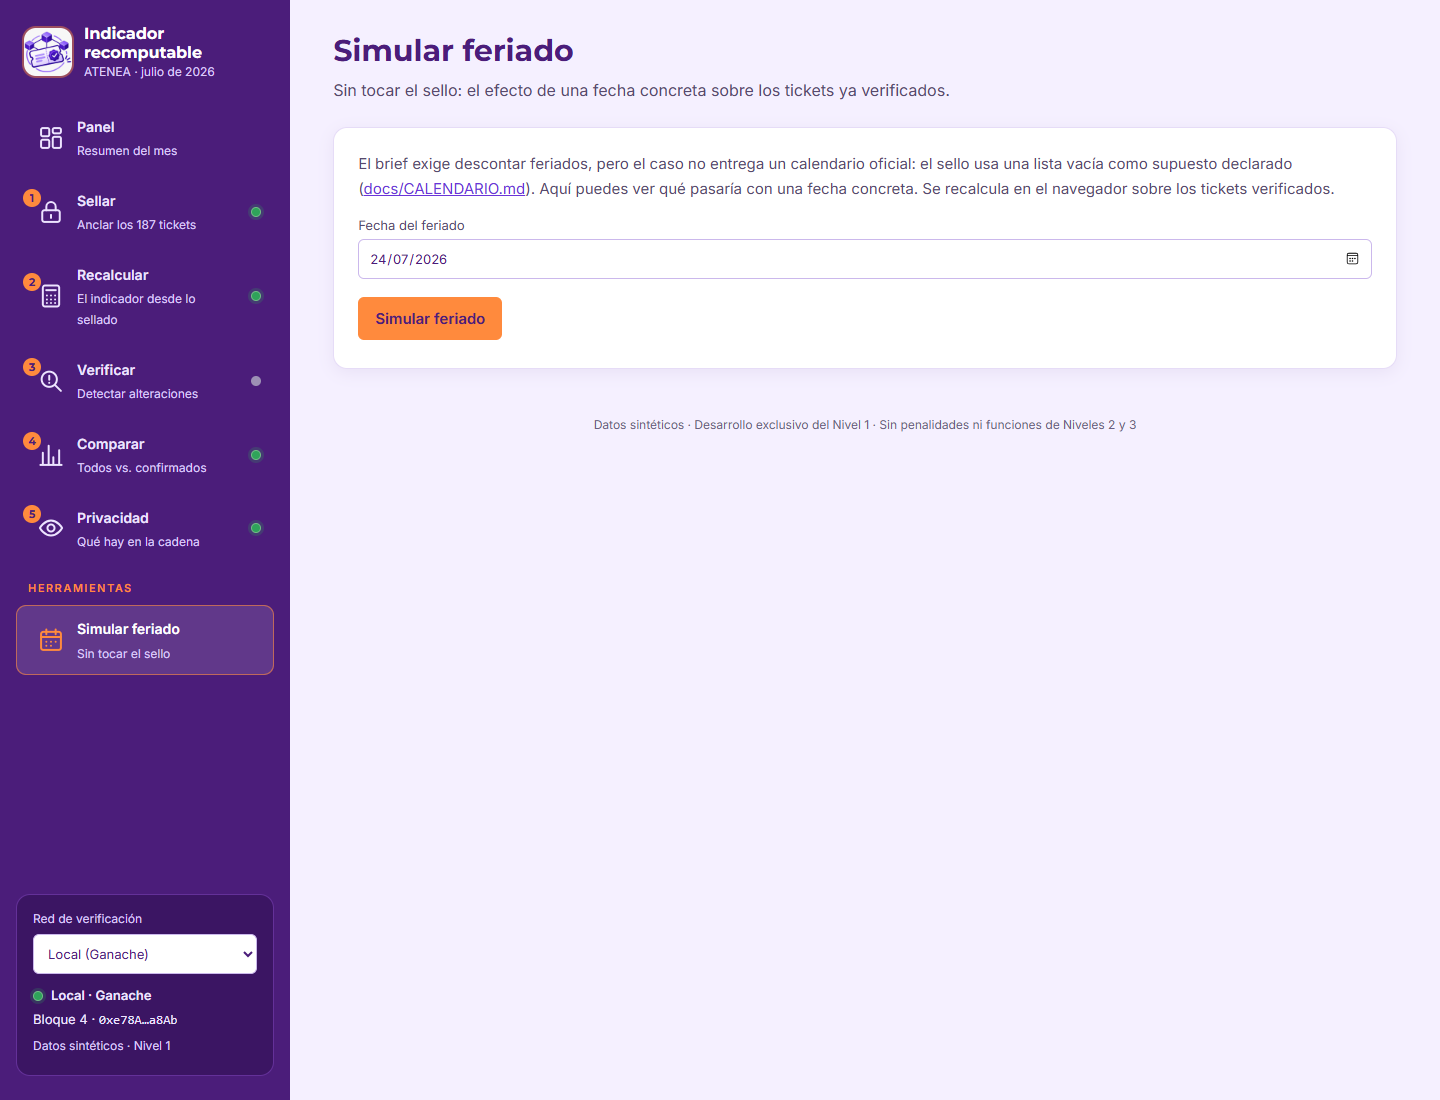
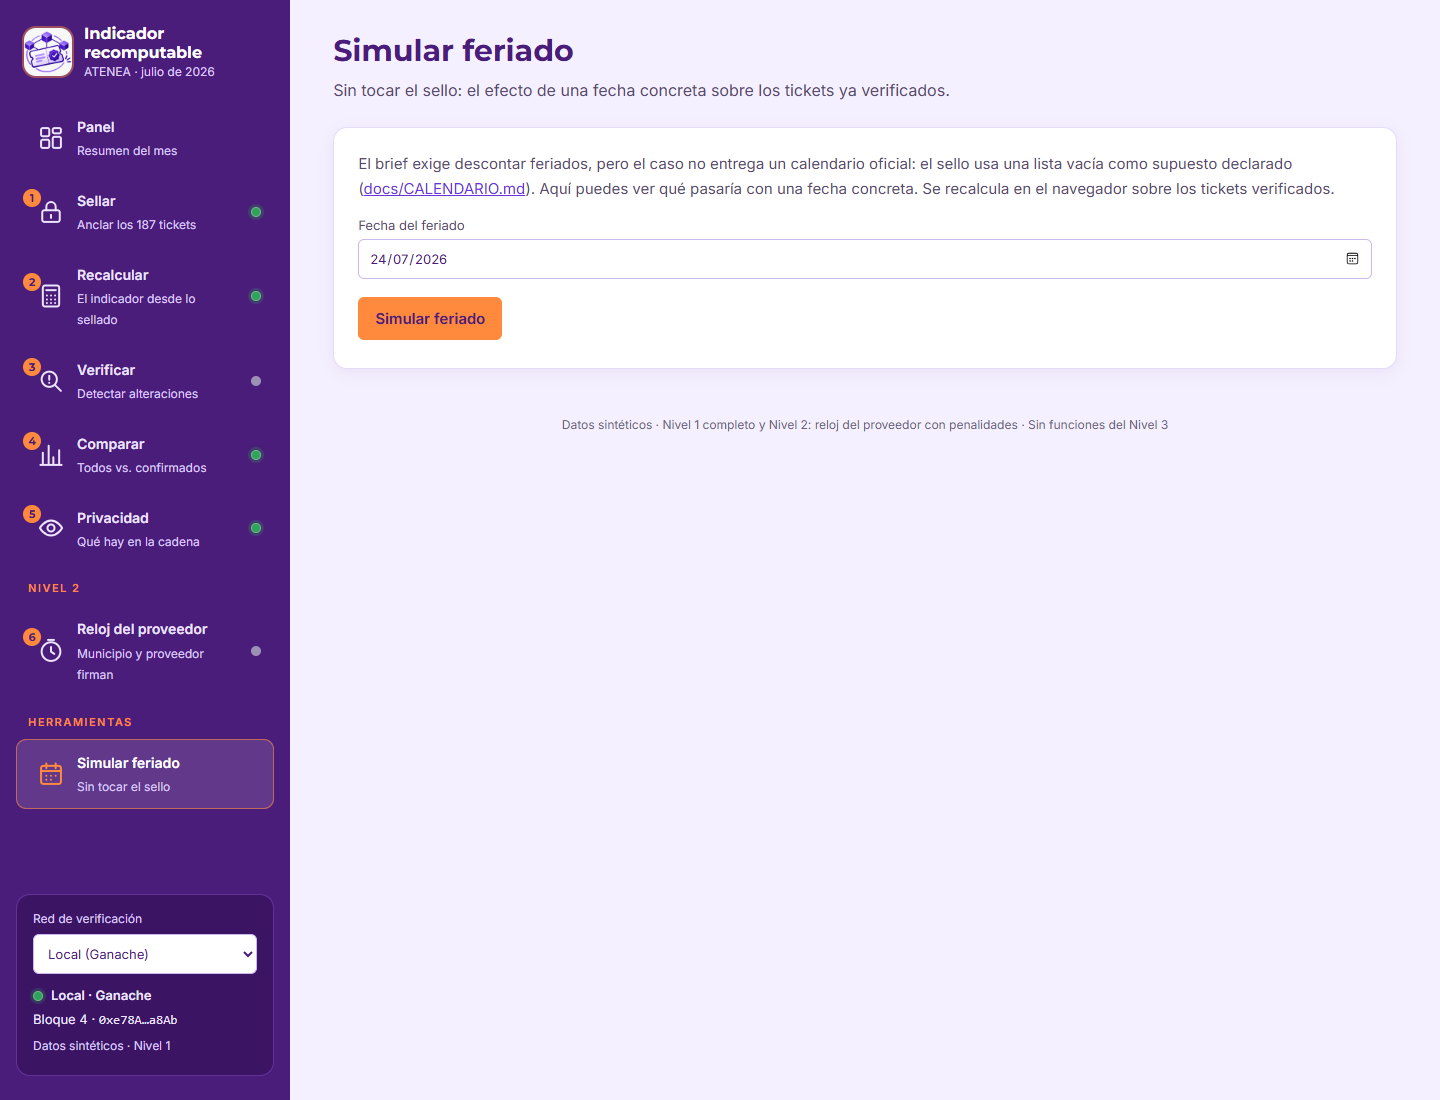
Fase 5: vista #/proveedor (Nivel 2) con el diseño nuevo
- Menú: sección «Nivel 2» con «6 · Reloj del proveedor» (ícono de reloj) y su punto de estado.
- «Cargar los 9 casos»: el municipio abre y el proveedor responde; la vista muestra quién
  firma cada paso (cuenta y dirección) y el progreso paso a paso. Es idempotente: no repite
  lo que ya está en la cadena.
- Tabla: apertura, respuesta, horas, SLA, cumple, penalidad del contrato y, al lado, la que
  declaraba el CSV. PVT-04226 en rojo: «Rechazado por el contrato: respuesta anterior a la
  apertura. El CSV lo reportaba como cumplido con 0 USD».
- Total grande: 2.592 USD. «Recalcular como tercero» usa un proveedor de solo lectura, sin
  llaves ni CSV: lee los eventos, recalcula y marca «coincide» por fila y en el total.
- Panel: paso 6 en #demoScript (los 5 anteriores intactos); pie y tarjeta de red actualizados.
- La lógica vive en src/proveedor.mjs; app.mjs solo añade la ruta, el punto, el paso y la
  carga de evidencias/reloj-local.json en la red local.
- npm test 58/58; verify:source 11/11; auditoría del Nivel 1 sigue 5/5.

Changed region(s): [[0.0, 0.6491, 0.1875, 0.7418], [0.0, 0.5255, 0.1875, 0.6182], [0.4062, 0.3709, 0.8125, 0.4018]]

diff --git a/src/index.html b/src/index.html
@@ -22,6 +22,7 @@
     <symbol id="i-compare" viewBox="0 0 24 24"><path d="M5 20V10M10 20V4M14 20v-6M19 20V8"/><path d="M3 20.5h18"/></symbol>
     <symbol id="i-eye" viewBox="0 0 24 24"><path d="M2.5 12S6 5.5 12 5.5 21.5 12 21.5 12 18 18.5 12 18.5 2.5 12 2.5 12Z"/><circle cx="12" cy="12" r="3"/></symbol>
     <symbol id="i-calendar" viewBox="0 0 24 24"><rect x="3.5" y="5" width="17" height="15.5" rx="2"/><path d="M3.5 9.5h17M8 3v4M16 3v4"/><path d="M8 13.5h.01M12 13.5h.01M16 13.5h.01M8 17h.01M12 17h.01"/></symbol>
+    <symbol id="i-clock" viewBox="0 0 24 24"><circle cx="12" cy="12.5" r="8"/><path d="M12 8.5v4l2.8 2"/><path d="M9.5 2.5h5"/></symbol>
     <symbol id="i-menu" viewBox="0 0 24 24"><path d="M4 6.5h16M4 12h16M4 17.5h16"/></symbol>
     <symbol id="i-close" viewBox="0 0 24 24"><path d="m6 6 12 12M18 6 6 18"/></symbol>
     <symbol id="i-copy" viewBox="0 0 24 24"><rect x="8.5" y="8.5" width="11" height="11" rx="2"/><path d="M15.5 8.5v-2a2 2 0 0 0-2-2h-7a2 2 0 0 0-2 2v7a2 2 0 0 0 2 2h2"/></symbol>
@@ -53,6 +54,10 @@
       <li><a href="#/comparar" data-route="comparar"><span class="menu-ico"><svg class="icon"><use href="#i-compare"/></svg><span class="menu-num" aria-hidden="true">4</span></span><span class="item"><strong>Comparar</strong><small>Todos vs. confirmados</small></span><span class="dot" data-dot="comparar" role="img" aria-label="Estado: pendiente"></span></a></li>
       <li><a href="#/privacidad" data-route="privacidad"><span class="menu-ico"><svg class="icon"><use href="#i-eye"/></svg><span class="menu-num" aria-hidden="true">5</span></span><span class="item"><strong>Privacidad</strong><small>Qué hay en la cadena</small></span><span class="dot" data-dot="privacidad" role="img" aria-label="Estado: pendiente"></span></a></li>
     </ul>
+    <p class="menu-sep">Nivel 2</p>
+    <ul class="menu">
+      <li><a href="#/proveedor" data-route="proveedor"><span class="menu-ico"><svg class="icon"><use href="#i-clock"/></svg><span class="menu-num" aria-hidden="true">6</span></span><span class="item"><strong>Reloj del proveedor</strong><small>Municipio y proveedor firman</small></span><span class="dot" data-dot="proveedor" role="img" aria-label="Estado: pendiente"></span></a></li>
+    </ul>
     <p class="menu-sep">Herramientas</p>
     <ul class="menu">
       <li><a href="#/feriado" data-route="feriado"><svg class="icon"><use href="#i-calendar"/></svg><span class="item"><strong>Simular feriado</strong><small>Sin tocar el sello</small></span></a></li>
@@ -64,7 +69,7 @@
     <select id="network"><option value="local">Local (Ganache)</option><option value="sepolia">Pública (Sepolia)</option></select>
     <p class="netline"><span id="rpcDot" class="dot gray" role="img" aria-label="RPC: sin comprobar"></span><span id="netName">Conectando…</span></p>
     <p class="netmeta">Bloque <span id="netBlock">—</span> · <span id="netContract" class="hash">—</span></p>
-    <p class="netnote">Datos sintéticos · Nivel 1</p>
+    <p class="netnote">Datos sintéticos · Niveles 1 y 2</p>
   </div>
 </aside>
 
@@ -87,6 +92,7 @@
       <li data-step="3"><span class="check" role="img" aria-label="Pendiente"><svg class="icon"><use href="#i-check"/></svg></span><span><a href="#/verificar">Detectar una alteración</a><small>Un CSV editado a mano da <strong>ROJO</strong> y señala el ticket.</small></span></li>
       <li data-step="4"><span class="check" role="img" aria-label="Pendiente"><svg class="icon"><use href="#i-check"/></svg></span><span><a href="#/comparar">Comparar</a><small>Todos los cierres frente a solo los confirmados.</small></span></li>
       <li data-step="5"><span class="check" role="img" aria-label="Pendiente"><svg class="icon"><use href="#i-check"/></svg></span><span><a href="#/privacidad">Privacidad</a><small>Ningún nombre ni contenido de ticket en la cadena.</small></span></li>
+      <li data-step="6"><span class="check" role="img" aria-label="Pendiente"><svg class="icon"><use href="#i-check"/></svg></span><span><a href="#/proveedor">Reloj del proveedor · Nivel 2</a><small>Penalidades de <strong>2.592 USD</strong> y el caso con tiempo negativo <strong>RECHAZADO</strong>.</small></span></li>
     </ol>
   </div>
   <aside class="notice"><strong>Universo del reto: los 187 tickets originales.</strong> <span id="scopeNote">El lote incluye reportes fuera de julio. Los conteos se muestran al validar los originales. Se usa el estado final del lote, no un corte calendario estricto.</span></aside>
@@ -200,6 +206,24 @@
   </div>
 </section>
 
+<section id="s6" class="view" data-route="proveedor" aria-labelledby="t-proveedor" hidden>
+  <header class="viewhead"><h1 id="t-proveedor" tabindex="-1">Reloj del proveedor</h1><p>Nivel 2: el municipio firma la apertura de cada caso y el proveedor su respuesta, cada uno con su propia llave. Cualquiera puede recalcular el tiempo y la penalidad.</p></header>
+  <div class="card">
+    <div id="signers" class="signers"></div>
+    <div class="actions"><button id="loadCases" type="button">Cargar los 9 casos</button><button id="thirdParty" type="button" class="secondary" hidden>Recalcular como tercero</button></div>
+    <output id="caseStatus" class="status info" aria-live="polite">Sin casos cargados en esta sesión.</output>
+  </div>
+  <div id="caseResults" hidden>
+    <div id="caseTotal" class="verdict" aria-live="polite"></div>
+    <div id="caseRejected"></div>
+    <div class="card">
+      <h2>Casos de tickets_proveedor.csv</h2>
+      <div class="tablewrap"><table class="cases"><thead><tr><th>Caso</th><th>Abre → responde</th><th>Apertura</th><th>Respuesta</th><th>Horas</th><th>SLA (h)</th><th>Cumple</th><th>Penalidad del contrato</th><th>Penalidad que declaraba el CSV</th><th>Tercero</th></tr></thead><tbody id="cases"></tbody></table></div>
+      <p class="small">Supuesto: el SLA contractual se mide en horas corridas, no hábiles, porque así vienen los datos. Fechas en UTC−05:00.</p>
+    </div>
+  </div>
+</section>
+
 <section id="holiday" class="view" data-route="feriado" aria-labelledby="t-feriado" hidden>
   <header class="viewhead"><h1 id="t-feriado" tabindex="-1">Simular feriado</h1><p>Sin tocar el sello: el efecto de una fecha concreta sobre los tickets ya verificados.</p></header>
   <div class="card">
@@ -210,7 +234,7 @@
   </div>
 </section>
 
-<footer class="footer">Datos sintéticos · Desarrollo exclusivo del Nivel 1 · Sin penalidades ni funciones de Niveles 2 y 3</footer>
+<footer class="footer">Datos sintéticos · Nivel 1 completo y Nivel 2: reloj del proveedor con penalidades · Sin funciones del Nivel 3</footer>
 </main>
 </div>
 </body>

diff --git a/src/style.css b/src/style.css
@@ -470,6 +470,21 @@ th { text-align: left; background: #eee6fb; position: sticky; top: 0; }
 td, th { padding: 12px; border-bottom: 1px solid var(--border); vertical-align: top; }
 td { line-height: 1.6; }
 table.summary td.num { font-family: var(--font-display); font-size: 18px; font-weight: 700; white-space: nowrap; }
+/* ---------- Nivel 2 · Reloj del proveedor ---------- */
+.info { background: var(--surface-soft); color: var(--ink); border: 1px solid var(--border); }
+.signer-list { list-style: none; margin: 0 0 var(--space-3); padding: 0; display: grid; grid-template-columns: repeat(auto-fit, minmax(min(220px, 100%), 1fr)); gap: var(--space-3); line-height: 1.4; }
+.signer-list li { display: flex; flex-direction: column; gap: 2px; padding: var(--space-3) var(--space-4); border-radius: var(--radius); background: var(--surface-soft); border: 1px solid var(--border); color: var(--text); }
+.signer-list strong { font-family: var(--font-display); font-size: 17px; color: var(--ink); }
+.signer-list .hash { color: var(--muted); }
+.verdict-main.case-total strong { font-size: clamp(40px, 6vw, 60px); line-height: 1.1; }
+table.cases td { white-space: nowrap; }
+table.cases tr.rejected td[colspan], table.cases td.third { white-space: normal; }
+table.cases td.pen strong { font-family: var(--font-display); font-size: 16px; color: var(--ink); }
+table.cases tr.rejected td { background: var(--red-bg); color: var(--red); }
+table.cases tr.rejected strong { color: var(--red); }
+.match { font-weight: 700; color: var(--green); }
+.nomatch { font-weight: 700; color: var(--red); }
+
 /* Comparar vacío: un aviso y el botón para recalcular ahí mismo. */
 .compare-start { display: flex; flex-wrap: wrap; align-items: center; justify-content: space-between; gap: var(--space-3); border-left: 6px solid var(--action); }
 .compare-start p { margin: 0; font-weight: 600; color: var(--ink); }

diff --git a/docs/AUDITORIA.md b/docs/AUDITORIA.md
@@ -1,6 +1,6 @@
 # Auditoría Nivel 1 — Reto 03
 
-Ejecución UTC: 2026-11-12T21:52:36.376Z → 2026-11-12T21:54:01.491Z. Zona de presentación: America/Guayaquil.
+Ejecución UTC: 2026-11-12T22:11:42.137Z → 2026-11-12T22:12:51.694Z. Zona de presentación: America/Guayaquil.
 
 Resultado: **NIVEL 1 COMPLETO**.
 
